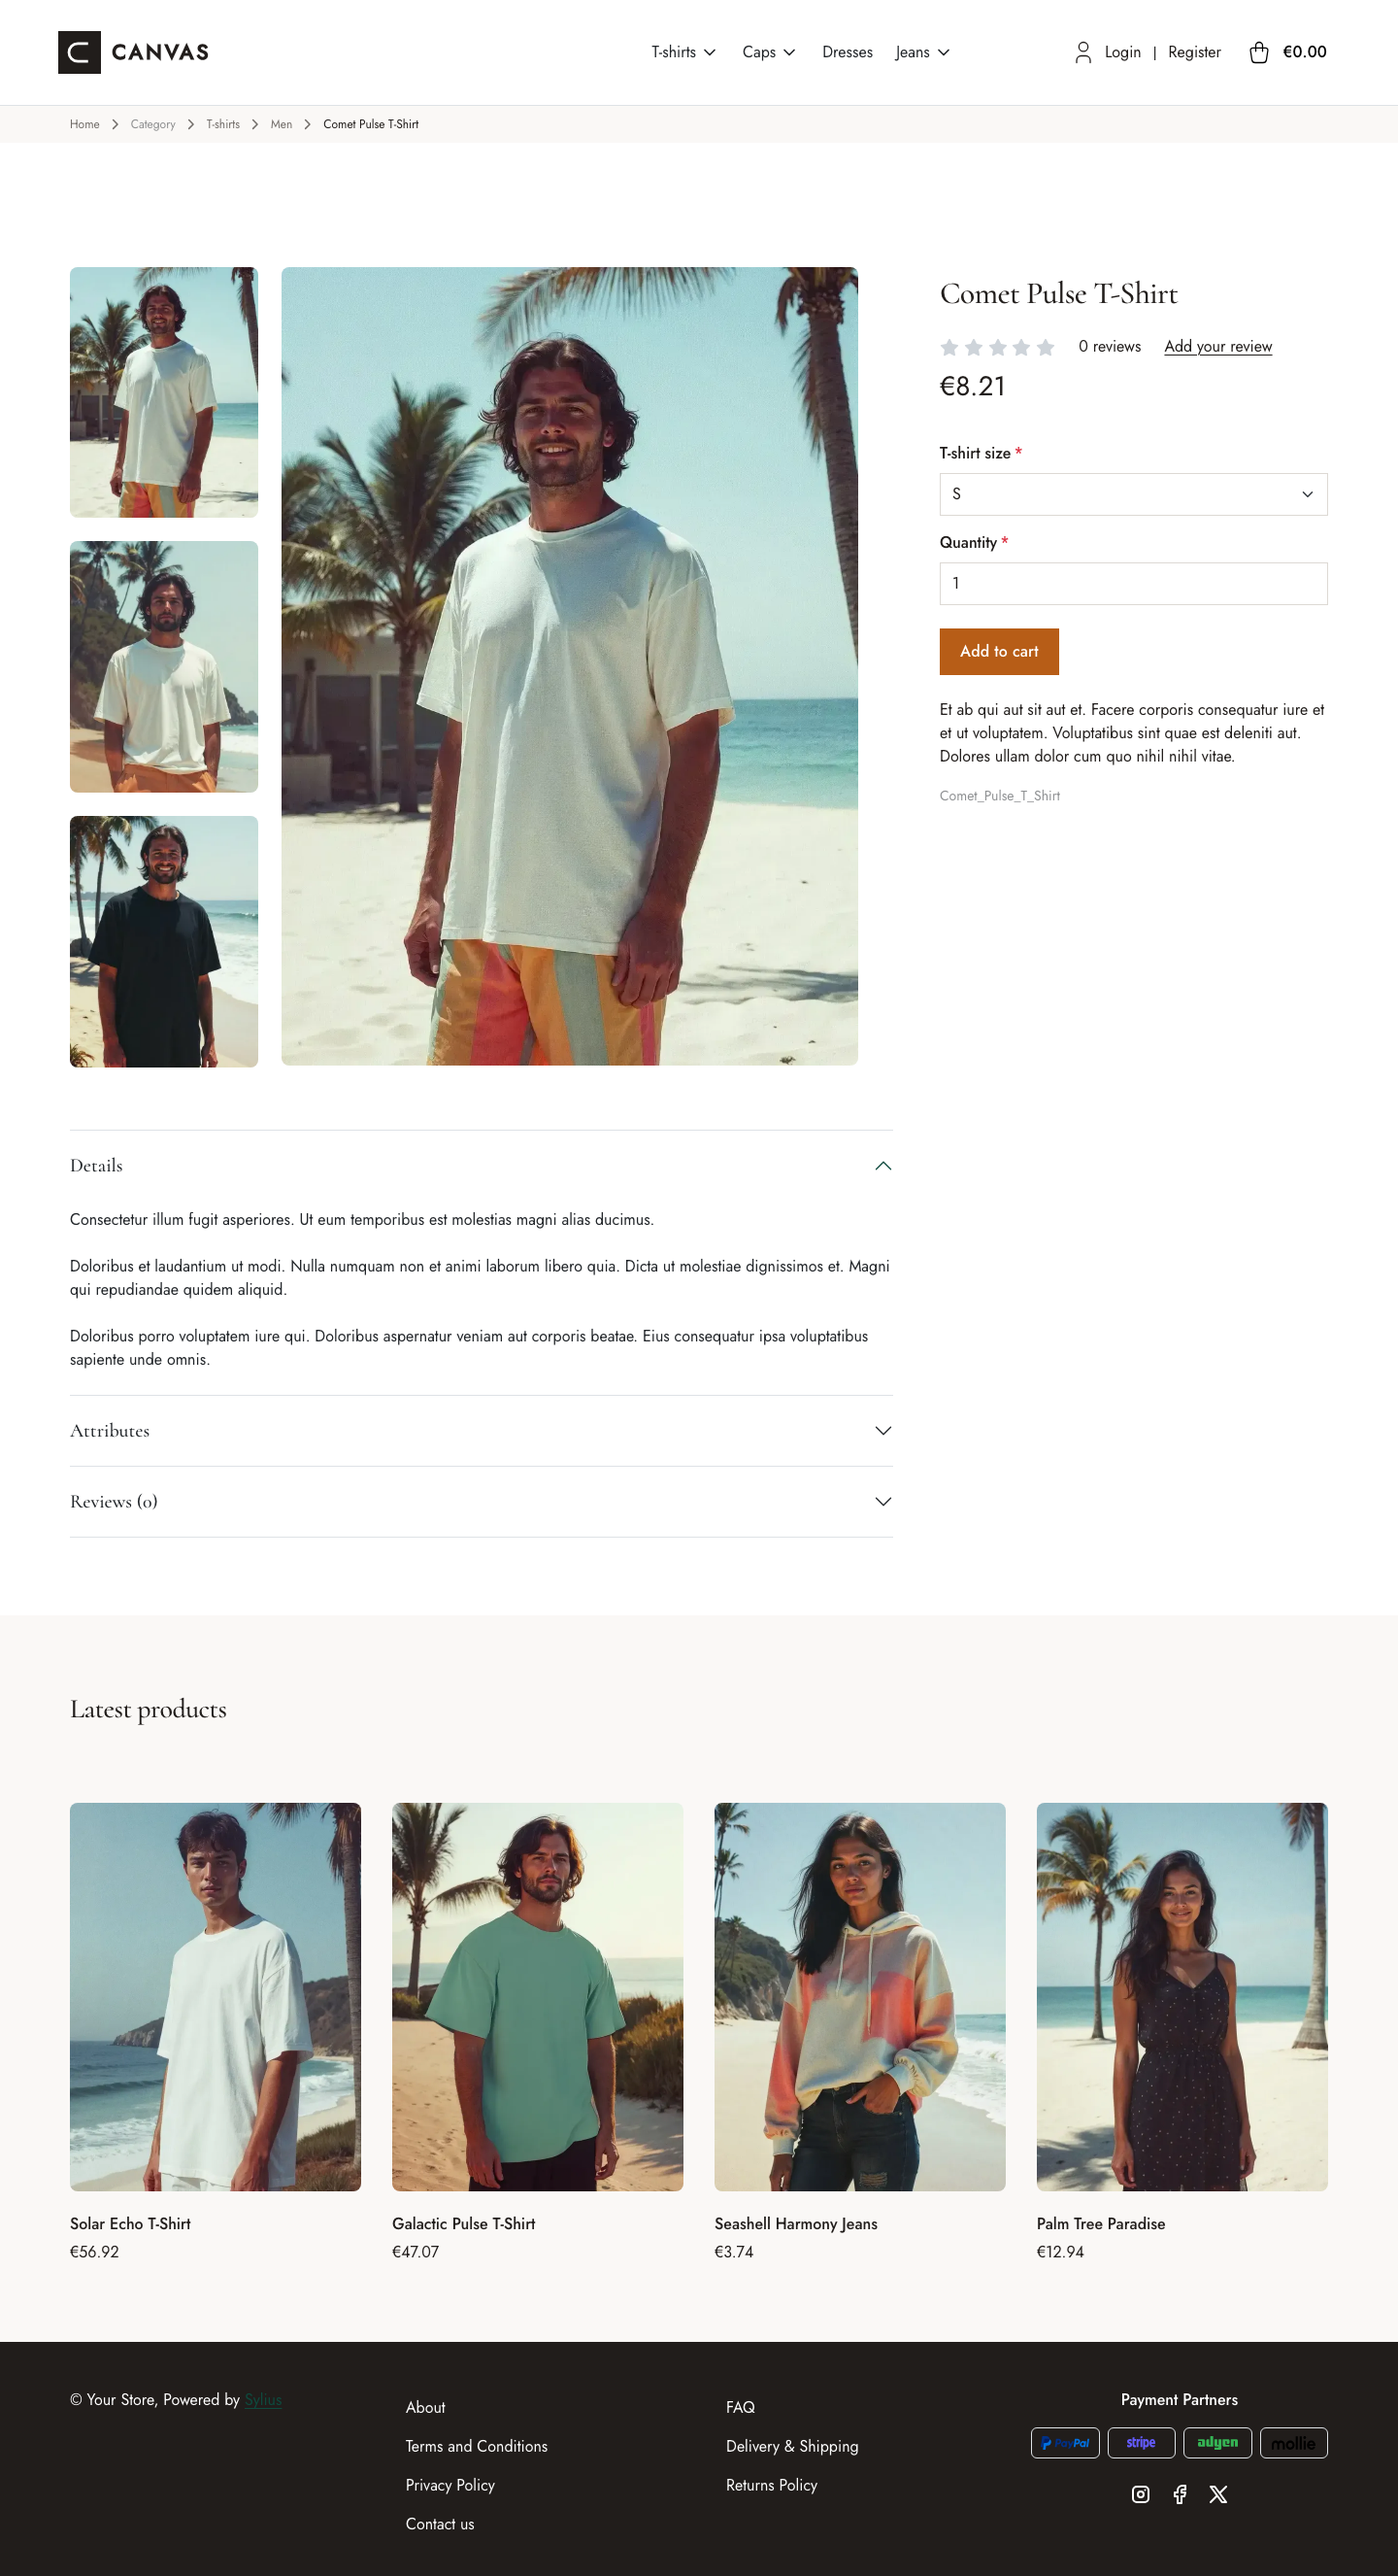
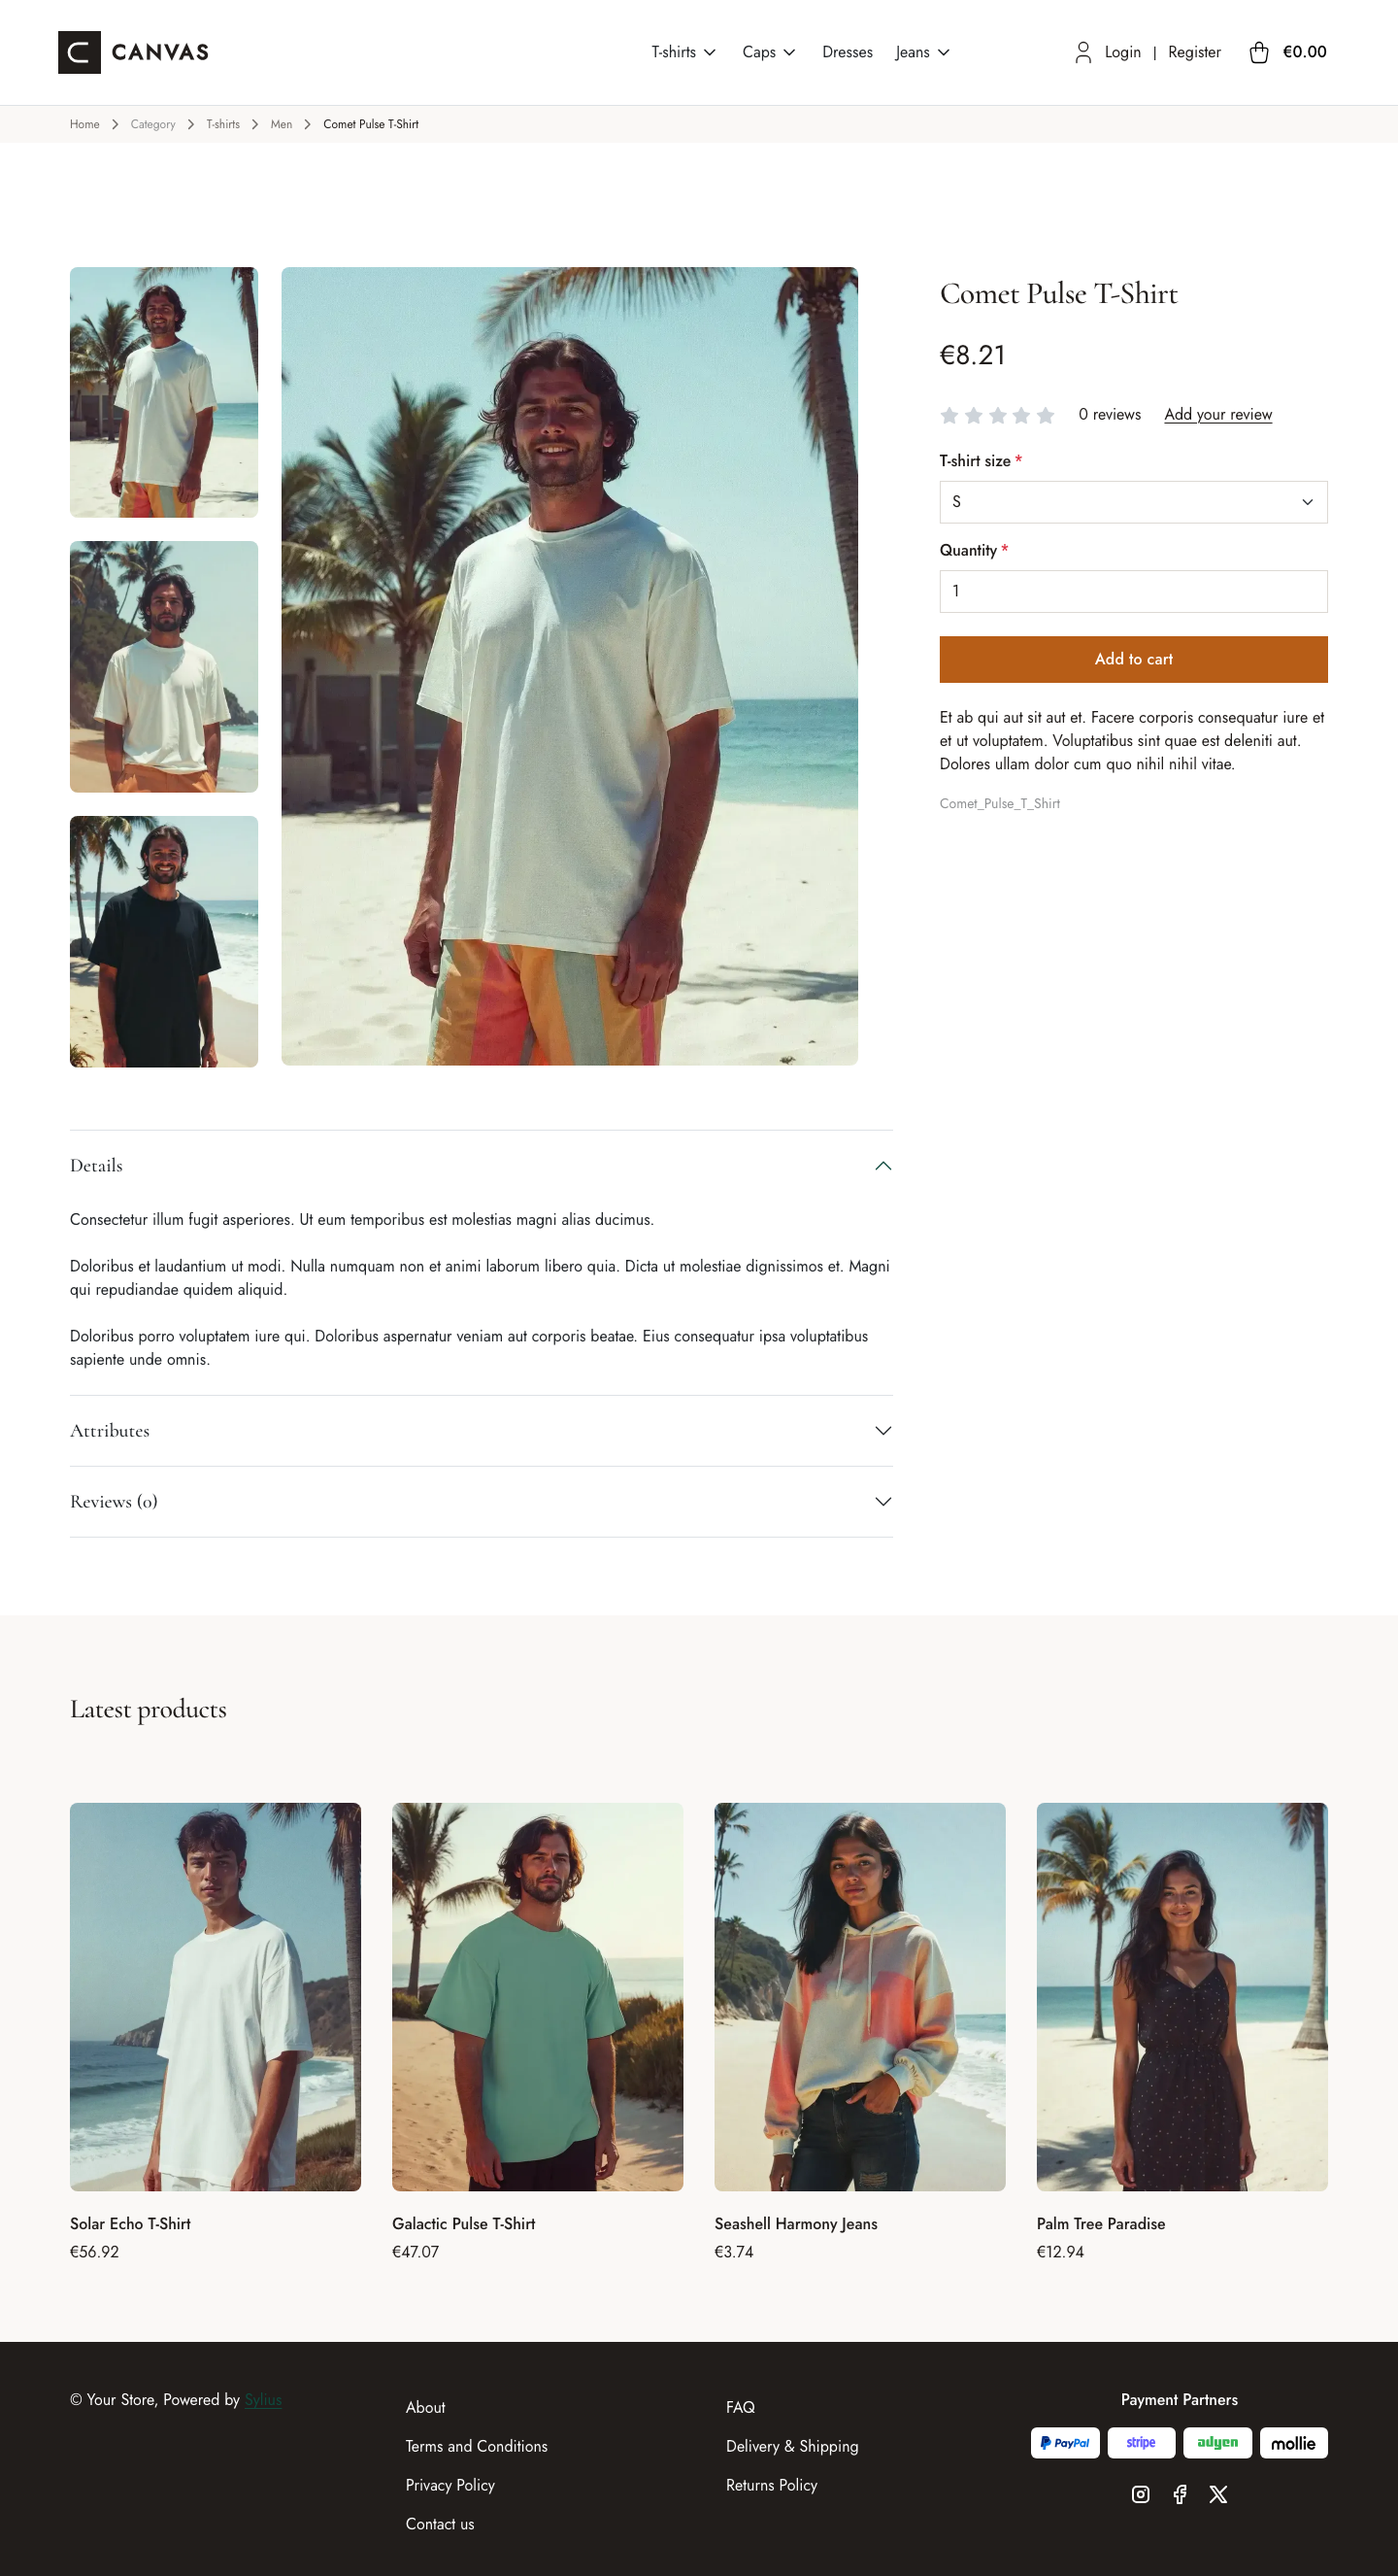
feat(themes): Improve Canvas & Volt themes

Changed region(s): [[0.6562, 0.1237, 0.9688, 0.3092], [0.7188, 0.9276, 0.9688, 0.9585]]

diff --git a/resources/theme/volt/assets/shop/styles/_footer.scss b/resources/theme/volt/assets/shop/styles/_footer.scss
@@ -57,6 +57,11 @@ footer {
   }
 }
 
+footer .row.g-2.mb-4 > div > a {
+  border-color: rgba($white, 0.35) !important;
+  background-color: $white;
+}
+
 .volt-footer__brand {
   margin-bottom: 2rem;
   padding-bottom: 1.5rem;

diff --git a/resources/theme/canvas/assets/shop/styles/_footer.scss b/resources/theme/canvas/assets/shop/styles/_footer.scss
@@ -70,3 +70,8 @@ footer {
     color: $white !important;
   }
 }
+
+footer .row.g-2.mb-4 > div > a {
+  border-color: rgba($white, 0.35) !important;
+  background-color: $white;
+}

diff --git a/resources/theme/canvas/assets/shop/styles/_buttons.scss b/resources/theme/canvas/assets/shop/styles/_buttons.scss
@@ -58,3 +58,7 @@
     color: $black-hover;
   }
 }
+
+#add-to-cart-button {
+  width: 100%;
+}

diff --git a/resources/theme/volt/assets/shop/styles/_buttons.scss b/resources/theme/volt/assets/shop/styles/_buttons.scss
@@ -54,3 +54,7 @@
     color: $electric;
   }
 }
+
+#add-to-cart-button {
+  width: 100%;
+}

diff --git a/resources/theme/canvas/config/sylius/twig_hooks/shop/product/show.php b/resources/theme/canvas/config/sylius/twig_hooks/shop/product/show.php
@@ -17,6 +17,11 @@ return App::config([
                     'template' => 'shop/product/show/content/info.html.twig',
                 ],
             ],
+            'sylius_shop.product.show.content.info.summary' => [
+                'prices' => [
+                    'priority' => 450,
+                ],
+            ],
             'sylius_shop.product.show.content.product_listing' => [
                 'associations' => [
                     'template' => 'shop/product/show/content/product_listing/associations.html.twig',

diff --git a/resources/theme/volt/config/sylius/twig_hooks/shop/product/show.php b/resources/theme/volt/config/sylius/twig_hooks/shop/product/show.php
@@ -1,0 +1,17 @@
+<?php
+
+declare(strict_types=1);
+
+namespace Symfony\Component\DependencyInjection\Loader\Configurator;
+
+return App::config([
+    'sylius_twig_hooks' => [
+        'hooks' => [
+            'sylius_shop.product.show.content.info.summary' => [
+                'prices' => [
+                    'priority' => 450,
+                ],
+            ],
+        ],
+    ],
+]);

diff --git a/README.md b/README.md
@@ -212,7 +212,7 @@ Here are two snapshots of the Canvas storefront:
 <table>
   <tr>
     <td align="center" width="50%">
-      <a href="docs/images/canvas-theme-homepage.png"><img src="docs/images/canvas-theme-homepage.png" alt="Canvas storefront homepage" width="100%"></a><br>
+      <a href="docs/images/canvas-homepage.png"><img src="docs/images/canvas-homepage.png" alt="Canvas storefront homepage" width="100%"></a><br>
       <strong>Homepage</strong>
     </td>
     <td align="center" width="50%">
@@ -233,8 +233,9 @@ The theme restyles the shop through SCSS overrides and Sylius Twig hooks:
   and breadcrumbs stay text-only.
 - **Homepage** — a full-width banner and a "latest products" section; the deals and
   collection blocks are removed.
-- **Product page** — a full-width breadcrumb band, a focused content area and a
-  listing of associated products (or latest products when there are none).
+- **Product page** — a full-width breadcrumb band, the price directly below the
+  product name and before reviews, a full-width add-to-cart button, and a listing
+  of associated products (or latest products when there are none).
 - **Login page** — a split-screen layout with a full-height image beside the
   login/register panel.
 
@@ -251,7 +252,9 @@ additional image assets.
   lavender (`#E9E5F4`) over a subtle, near-white background.
 - **Components** — pill-shaped buttons, soft rounded cards, pale high-contrast
   breadcrumbs, a custom Volt logo and a responsive category menu in the header,
-  a dark footer with white links, and no default header top bar.
+  a dark footer with white links and light-backed payment logos, a full-width
+  add-to-cart button, and no default header top bar.
+- **Product page** — the price sits directly below the product name, before reviews.
 - **Homepage** — an oversized, responsive graphic hero with a direct link to
   the latest products; new collection blocks are hidden.
 
